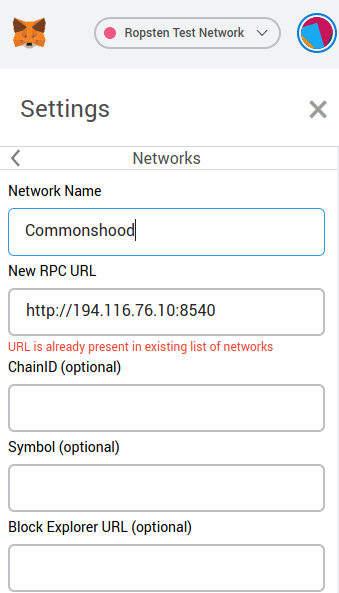
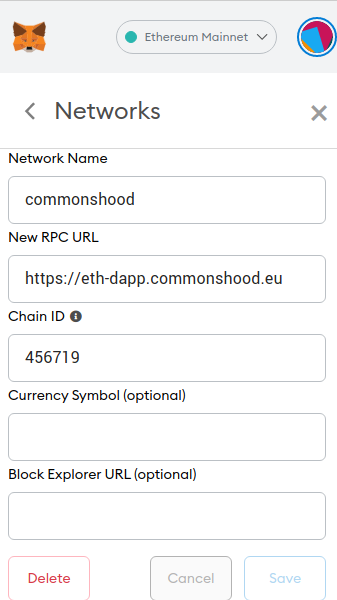
updated metamask welcome page

diff --git a/src/views/MetamaskHelper/MetamaskHelper.js b/src/views/MetamaskHelper/MetamaskHelper.js
@@ -44,7 +44,7 @@ const MetamaskHelper = (props) => {
                     <img src={metamask2}/>
                 </Typography>
                 <Typography variant="body1" gutterBottom>
-                    6. Now set <span style={{color:"red"}}>{config.blockchain.rpcEndpoint}</span> as "New RPC URL" and put whatever network name you find easier to remember in connection to our app. Here in the screenshoot we used directly "Commonshood" as it is the name of the main app of our network. If you want you can also add the explorer address <span style={{color:"red"}}>https://explorer-dapp.commonshood.eu</span> so that metamask can link directly to the details of your transactions.<br/>
+                    6. Now set <span style={{color:"red"}}>{config.blockchain.rpcEndpoint}</span> as "New RPC URL", <span style={{color:"red"}}>{config.blockchain.networkID}</span> as "networkID", and put whatever network name you find easier to remember in connection to our app. Here in the screenshoot we used directly "Commonshood" as it is the name of the main app of our network. If you want you can also add the explorer address <span style={{color:"red"}}>https://explorer-dapp.commonshood.eu</span> so that metamask can link directly to the details of your transactions.<br/>
                     Click the "Save" Button (not showed in the screenshot, is just below all the fields) and you are ready to go!
                     If the app does not refresh automatically, click the refresh button on your browser!
                 </Typography>
